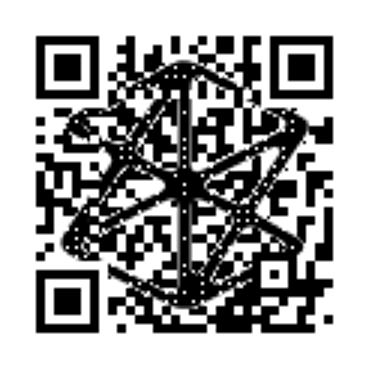
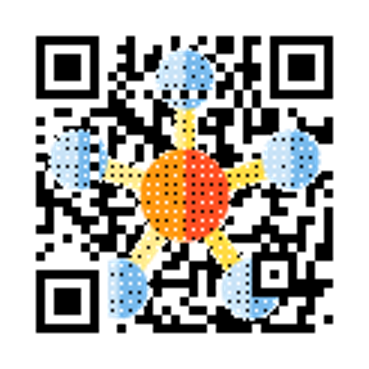
Update

Changed region(s): [[0.1192, 0.1192, 0.8943, 0.8943]]

diff --git a/Python10行内的高端操作/01生成二维码.py b/Python10行内的高端操作/01生成二维码.py
@@ -2,7 +2,7 @@
 from MyQR import myqr
 myqr.run(
     words='https://blog.csdn.net/cool99781',	# 包含信息
-    picture='Python10行内的高端操作/IMG/algorithm.png',			# 背景图片
+    picture='Python10行内的高端操作/IMG/git.png',			# 背景图片
     colorized=True,			# 是否有颜色，如果为False则为黑白
     save_name='Python10行内的高端操作/view/blogc1.png'  # 输出文件名
 )

diff --git a/Python10行内的高端操作/02生成词云.py b/Python10行内的高端操作/02生成词云.py
@@ -1,0 +1,5 @@
+# -*- coding: UTF-8 -*-
+from wordcloud import WordCloud
+wc = WordCloud()  # 创建词云对象
+wc.generate('hello world! Python is Beautiful! I like it')  # 生成词云
+wc.to_file(r'Python10行内的高端操作\view\wordcloud.png')  # 保存词云

diff --git a/Python10行内的高端操作/README.md b/Python10行内的高端操作/README.md
@@ -10,3 +10,20 @@
 + 识别是否带了口罩
 + 识别图片中的文字
 + 人工智能
+
+## 生成二维码
+用到MyQR库，用`pip install MtQR`
+代码：
+```py
+#coding: UTF-8
+from MyQR import myqr
+myqr.run(
+    words='https://blog.csdn.net/cool99781',	# 包含信息
+    picture='Python10行内的高端操作/IMG/git.png',			# 背景图片
+    colorized=True,			# 是否有颜色，如果为False则为黑白
+    save_name='Python10行内的高端操作/view/blogc1.png'  # 输出文件名
+)
+```
+做一个自己博客的二维码
+
+![北极光~]("E:\王一涵programThomas\王一涵PythonThomas\Python-Learned\Python10行内的高端操作\view\blogc1.png")
